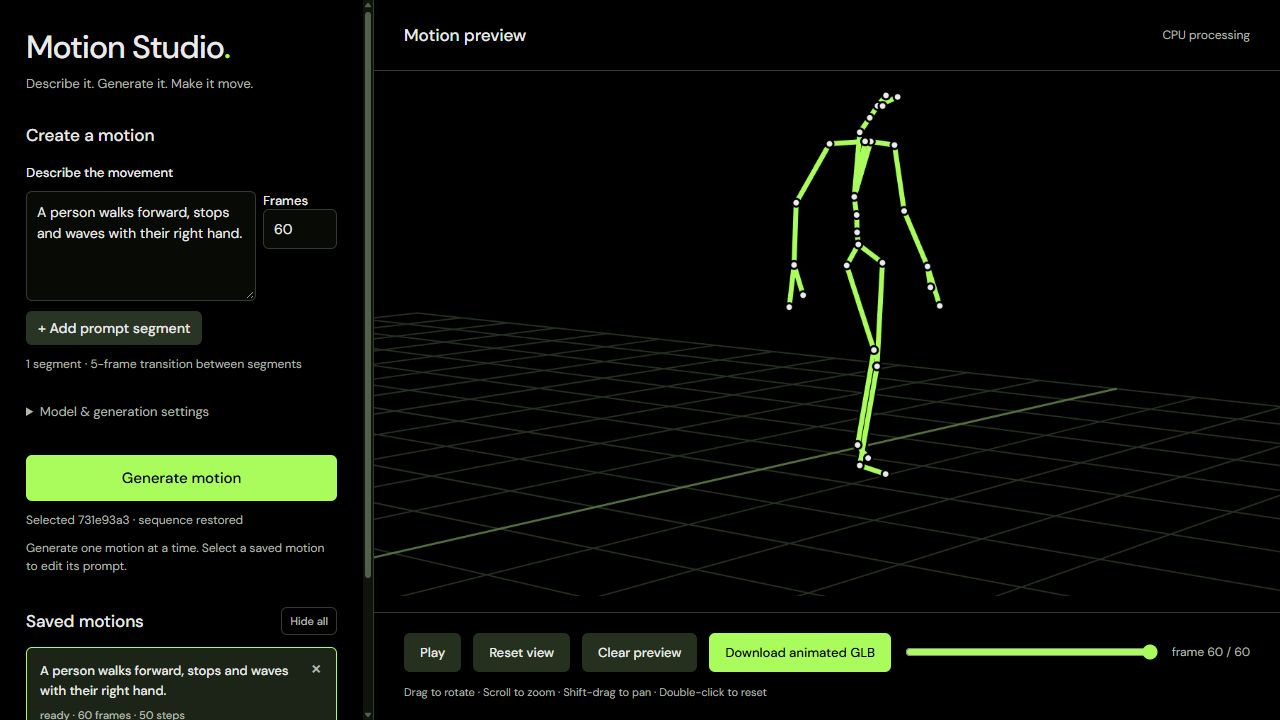
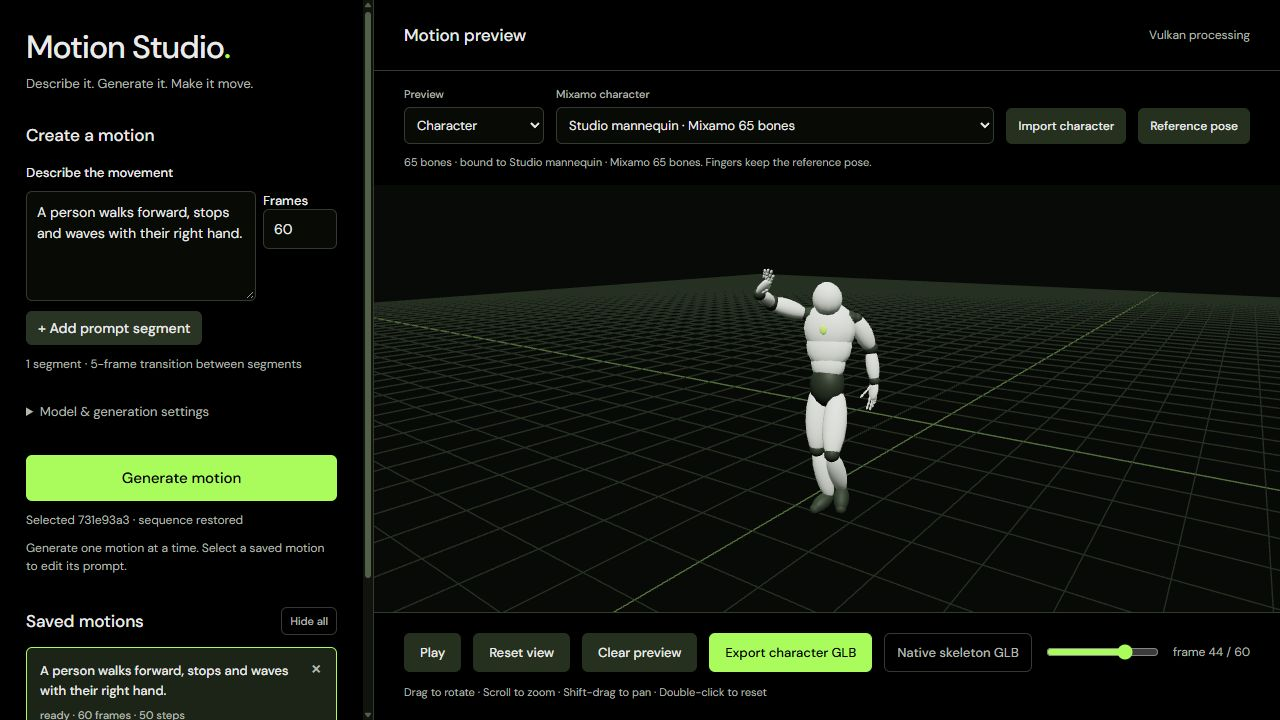
Document Motion Studio 1.2 Mixamo character tools

diff --git a/README.md b/README.md
@@ -4,9 +4,9 @@ Describe a movement, generate it locally and export an animated GLB.
 Motion Studio runs NVIDIA Kimodo through kimodo.cpp on Windows 11 x64,
 using your CPU or a Vulkan graphics card.
 
-**[Download Motion Studio 1.1.0 for Windows](https://github.com/ZURAVFX/Motion-Studio/releases/download/v1.1.0/Motion-Studio-Setup-1.1.0.exe)**
+**[Download Motion Studio 1.2.0 for Windows](https://github.com/ZURAVFX/Motion-Studio/releases/download/v1.2.0/Motion-Studio-Setup-1.2.0.exe)**
 
-Installer: 14.6 MB. Model weights download separately; sizes are shown before
+Installer: 14.9 MB. Model weights download separately; sizes are shown before
 you start. The installer includes the runtimes, so you do not need build tools,
 Python, Go or the Vulkan SDK. The installer is unsigned.
 
@@ -52,16 +52,29 @@ included. The engine validates the imported checkpoint when used.
 1. Run the installer and open Motion Studio.
 2. Choose a motion model and text encoder in the model library, then download.
 3. Describe a movement, choose frames/settings and select Generate motion.
-4. Select the saved result to preview it and Download animated GLB.
+4. Select a saved motion to preview it on the mannequin or your Mixamo character.
+5. Export character GLB to download the bound mesh, armature and animation.
 
 Use the **×** on a motion to hide it, **Hide all** to tidy the list, or
 **Clear preview** to empty the viewport. **Restore hidden motions** brings
 the list back. These controls keep the saved files, and clearing preserves
 your prompt and settings. Visibility preferences survive browser reloads.
 
-The exported GLB contains animated skeleton nodes without a character mesh.
-Retargeting/rigging is done in your animation software. Fine finger animation
-and the expanded SOMA presentation skeleton are not included.
+Import a custom **Mixamo FBX or GLB** character with its existing skin weights.
+FBX textures must be embedded; GLBs must be self-contained. Files may be up to
+100 MB; the converted character must fit within 64 MB. Characters stay on your
+computer and can be selected again after restarting. Textures export at up to
+1024 pixels. The built-in mannequin has the full **65-bone Mixamo hierarchy**.
+
+**Export character GLB** includes the skinned mesh, Mixamo armature and baked
+animation at 30 fps. The reference rig's names, hierarchy and end joints are
+preserved. In Blender, set 30 fps before importing and choose Blender bone
+direction for readable armature display. Custom characters retain their own
+rig proportions. SOMA is preferred for human motion; G1 motion is adapted from
+a robot rig. Finger bones keep their reference pose.
+
+**Native skeleton GLB** remains available for the original model joints.
+Fine finger movement and the expanded SOMA presentation skeleton are not predicted.
 
 The launcher chooses Vulkan when available. If your GPU fails, quit from the
 tray icon and use the CPU mode shortcut. Windows 11 x64 with AVX2 is required;
@@ -80,7 +93,7 @@ repository archives contain only this distribution documentation.
 
 Motion Studio is a modified distribution of the
 [Apache-2.0 kimodo.cpp engine](https://github.com/localai-org/kimodo.cpp),
-[GGML](https://github.com/ggml-org/ggml) and NVIDIA Kimodo.
+[GGML](https://github.com/ggml-org/ggml), [Three.js](https://threejs.org/) and NVIDIA Kimodo.
 **Built with Meta Llama 3.**
 
 SOMA/G1 models have [NVIDIA Open Model terms](https://www.nvidia.com/en-us/agreements/enterprise-software/nvidia-open-model-license/).
